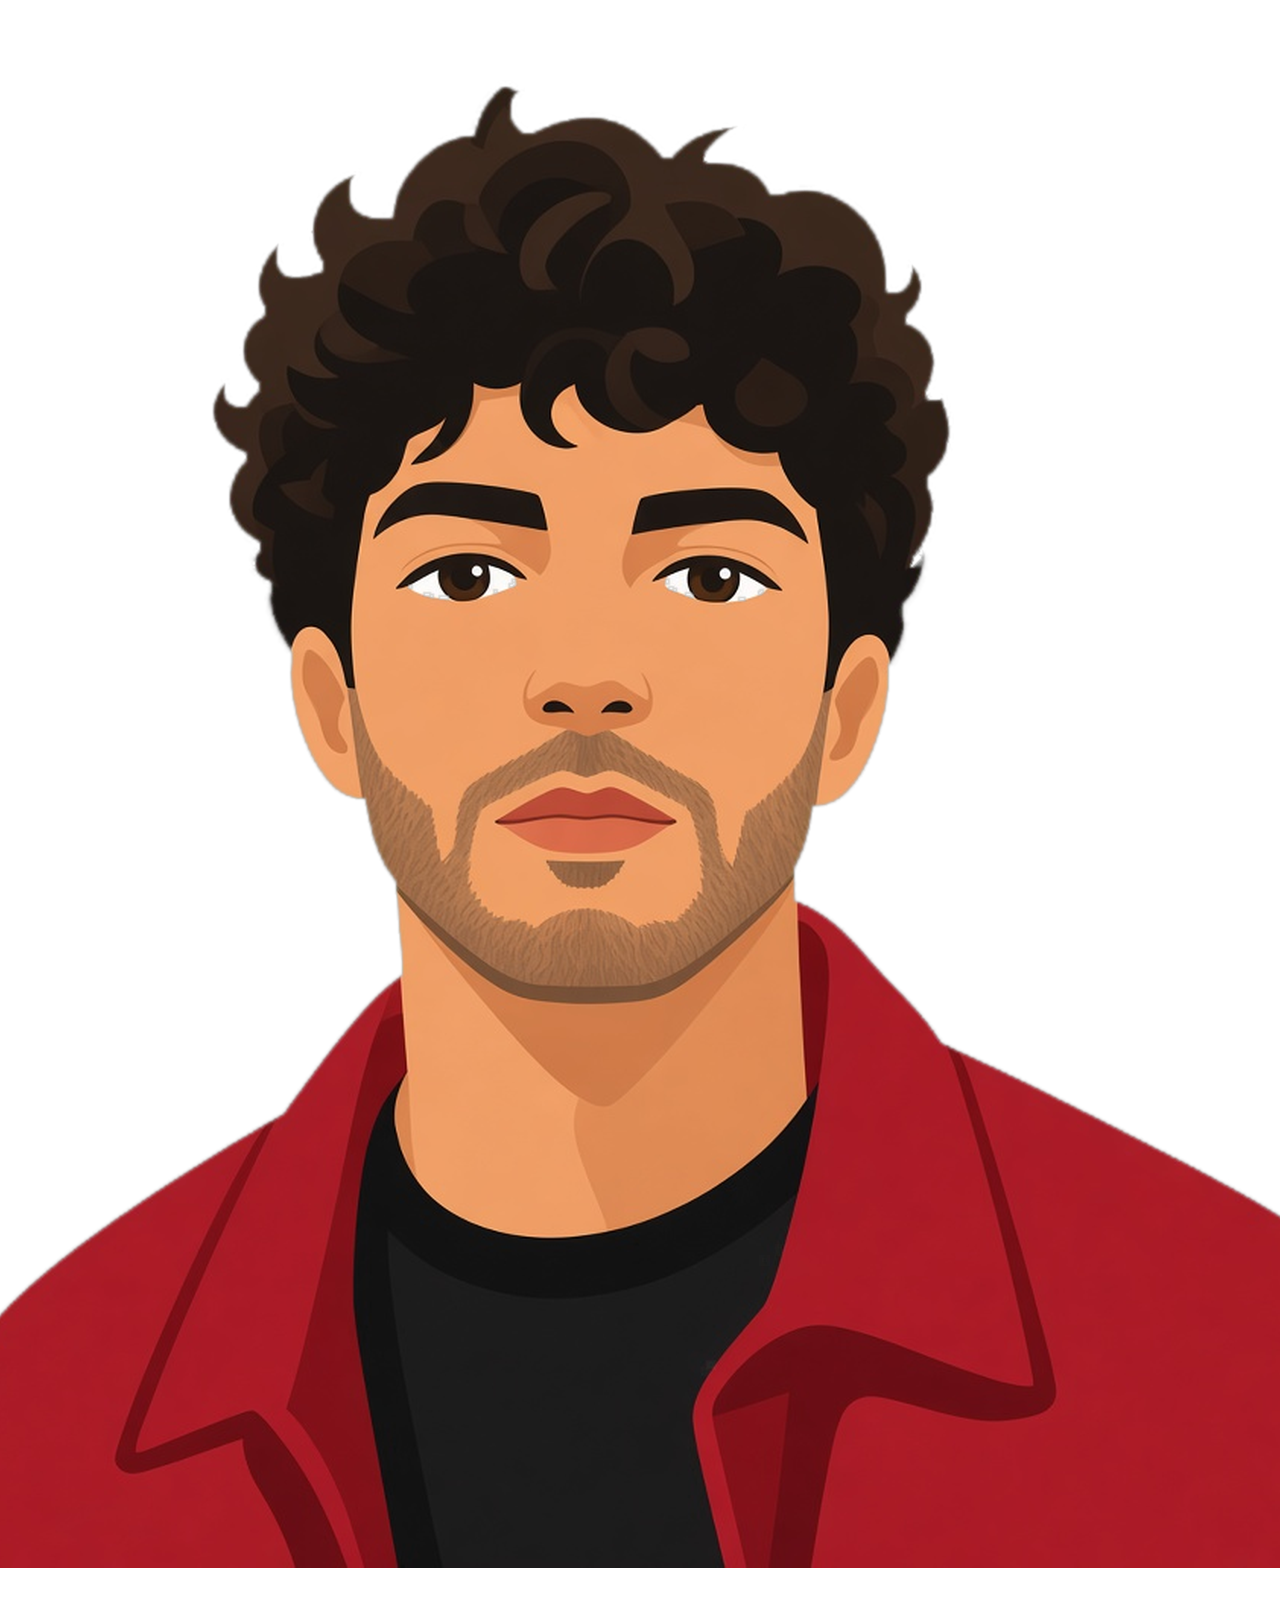
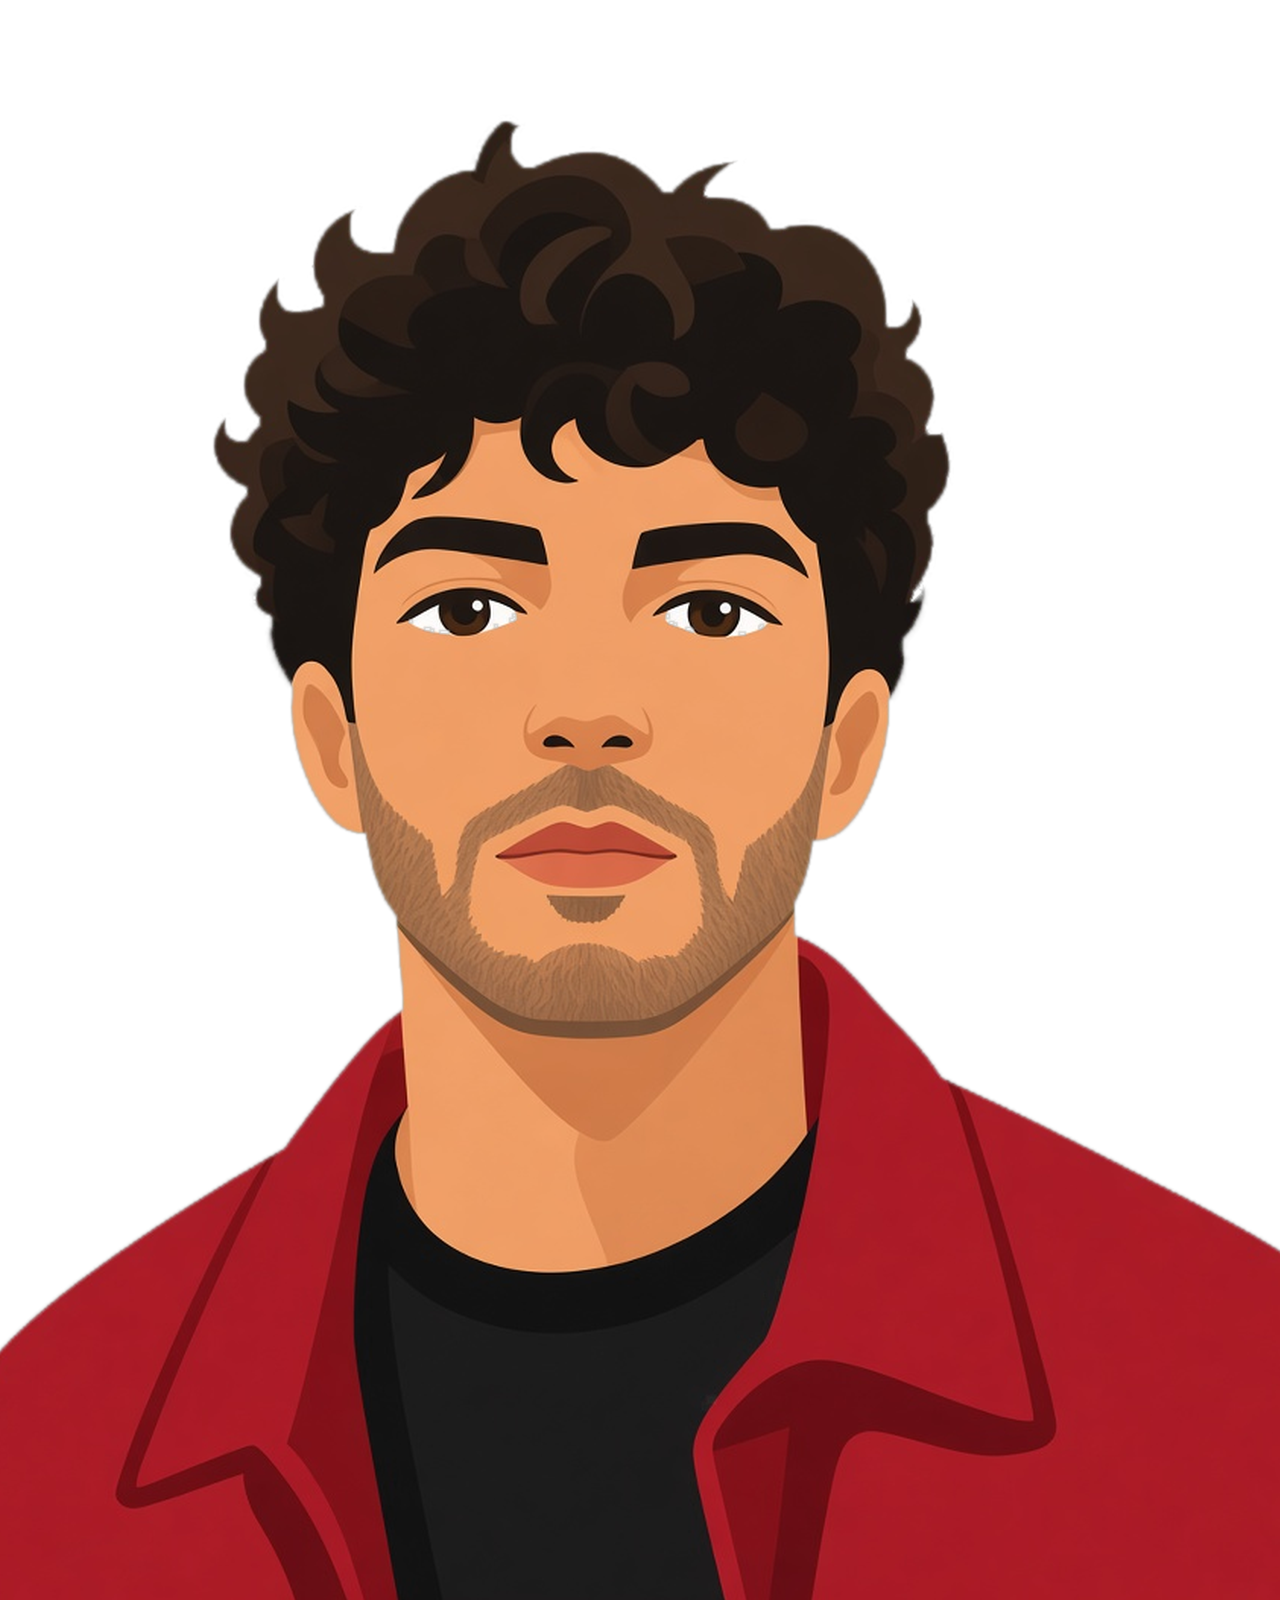
Round 20: iPhone optimization and portrait fix (#16)

Changed region(s): [[0.0, 0.0312, 1.0, 1.0], [0.4375, 0.6875, 0.4688, 0.7188]]

diff --git a/css/style.css b/css/style.css
@@ -115,6 +115,7 @@ html.lenis, html.lenis body { height: auto; }
 body {
   margin: 0;
   min-height: 100vh;
+  min-height: 100svh;
   background: var(--bg);
   color: var(--ink);
   font-family: var(--sans);
@@ -581,7 +582,7 @@ h3 .app-icon-sm, .flagship .app-icon-sm, .project-card .app-icon-sm {
 .tour-layout { display: grid; grid-template-columns: minmax(0, 1.2fr) minmax(0, 0.9fr); gap: clamp(1.5rem, 3vw, 3rem); align-items: start; }
 .tour-stage { position: sticky; top: calc(var(--nav-h) + 1.2rem); align-self: start; }
 .tour-steps { list-style: none; margin: 0; padding: 0 0 20vh; counter-reset: none; }
-.tour-step { min-height: 70vh; display: flex; flex-direction: column; justify-content: center; padding: 1.6rem 0; }
+.tour-step { min-height: 70vh; min-height: 70svh; display: flex; flex-direction: column; justify-content: center; padding: 1.6rem 0; }
 .tour-step-btn {
   all: unset; display: block; cursor: pointer; width: 100%; box-sizing: border-box;
   background: var(--card); border: 1px solid var(--line); border-radius: var(--r); padding: clamp(1.1rem, 2vw, 1.6rem);
@@ -623,7 +624,7 @@ html[data-theme="dark"] .scheme-img .on-dark { opacity: 1; pointer-events: auto;
 .about-list li { background: var(--card-2); border: 1px solid var(--line); border-radius: var(--r-sm); padding: 0.95rem 1.05rem; color: var(--ink-soft); font-size: 0.95rem; }
 
 /* ---------- 404 ---------- */
-.notfound { min-height: calc(100vh - var(--nav-h) - 8rem); display: grid; place-items: center; padding: 4rem 0; }
+.notfound { min-height: calc(100vh - var(--nav-h) - 8rem); min-height: calc(100svh - var(--nav-h) - 8rem - var(--safe-t) - var(--safe-b)); display: grid; place-items: center; padding: 4rem 0; }
 .notfound .card { text-align: center; max-width: 34rem; }
 .notfound h1 { font-size: clamp(2rem, 5vw, 3rem); margin-bottom: 1rem; }
 .notfound .big { font-family: var(--mono); font-weight: 700; color: var(--accent); font-size: clamp(3rem, 10vw, 6rem); line-height: 1; margin-bottom: 0.6rem; letter-spacing: -0.04em; }
@@ -632,7 +633,7 @@ html[data-theme="dark"] .scheme-img .on-dark { opacity: 1; pointer-events: auto;
 /* ---------- lightbox ---------- */
 .lb { position: fixed; inset: 0; z-index: 60; background: var(--veil); display: grid; place-items: center; padding: 4vw; opacity: 0; visibility: hidden; transition: opacity 0.3s, visibility 0.3s; }
 .lb.is-open { opacity: 1; visibility: visible; }
-.lb img { max-height: 90vh; width: auto; border-radius: 12px; }
+.lb img { max-height: 90vh; max-height: calc(90dvh - var(--safe-t) - var(--safe-b)); width: auto; border-radius: 12px; }
 .lb-close { position: absolute; top: 1rem; right: 1rem; }
 
 /* ---------- reveal (staggered fade / slide up) ---------- */
@@ -1441,3 +1442,53 @@ html[data-theme="dark"] .retro { --rt-ice-1: #EEF5F8; --rt-ice-2: #D5E4EB; --rt-
   white-space: nowrap; overflow: hidden; text-overflow: ellipsis;
 }
 @media (max-width: 1100px) { .project-card .metrics.metrics-4 { grid-template-columns: repeat(2, minmax(0, 1fr)); } }
+
+/* ---------- round 20: notch and island phones ----------
+   Every inset is 0 on desktop and on phones without a notch, so nothing
+   moves there. Tests can set the --safe-* values to simulate a notch. */
+:root {
+  --safe-t: env(safe-area-inset-top, 0px);
+  --safe-r: env(safe-area-inset-right, 0px);
+  --safe-b: env(safe-area-inset-bottom, 0px);
+  --safe-l: env(safe-area-inset-left, 0px);
+  --edge-l: max(var(--pad), calc(var(--safe-l) + 0.75rem));
+  --edge-r: max(var(--pad), calc(var(--safe-r) + 0.75rem));
+}
+html { -webkit-tap-highlight-color: transparent; overscroll-behavior-x: none; }
+body { overscroll-behavior-x: none; }
+/* full-height areas (body, 404, lightbox, tour steps) use svh/dvh in place, with a vh fallback */
+/* page edges: content never sits under the notch or the rounded corners in landscape */
+.wrap { padding-left: var(--edge-l); padding-right: var(--edge-r); }
+/* the computer's small-screen bleed stops 8px from the edge, or at the inset if larger */
+@media (max-width: 560px) {
+  .retro {
+    width: calc(100% + var(--edge-l) + var(--edge-r) - max(8px, var(--safe-l)) - max(8px, var(--safe-r)));
+    margin-left: calc(max(8px, var(--safe-l)) - var(--edge-l));
+    margin-right: calc(max(8px, var(--safe-r)) - var(--edge-r));
+  }
+}
+/* the bar fills the status area, its content starts below it */
+.nav { padding-top: var(--safe-t); }
+.tour-stage, .about-portrait { top: calc(var(--nav-h) + 1.2rem + var(--safe-t)); }
+.footer { padding-bottom: calc(2.6rem + var(--safe-b)); }
+.lb {
+  padding: max(4vw, var(--safe-t)) max(4vw, var(--safe-r)) max(4vw, var(--safe-b)) max(4vw, var(--safe-l));
+}
+.skip:focus { top: calc(1rem + var(--safe-t)); }
+.notfound { padding-bottom: calc(4rem + var(--safe-b)); }
+input, select, textarea { font-size: max(16px, 1em); }
+
+/* touch: 44px hit areas without changing how anything looks */
+@media (hover: none) and (pointer: coarse) {
+  .nav-links a, .footer-links a, .footer-in a, .wordmark, .theme-toggle, .arrow-link, .case-down, .lv-toggle { position: relative; }
+  .nav-links a::before, .footer-links a::before, .footer-in a::before, .wordmark::before,
+  .theme-toggle::before, .arrow-link::before, .float-reset::before, .case-down::before, .lv-toggle::before, .retro-power::before {
+    content: ""; position: absolute; left: -6px; right: -6px;
+    top: calc(50% - 22px); bottom: calc(50% - 22px); min-width: 44px;
+  }
+  .theme-toggle::before, .case-down::before, .retro-power::before { left: calc(50% - 22px); right: auto; width: 44px; }
+  /* visible press feedback in place of the grey tap flash */
+  a:active, button:active, [role="button"]:active { opacity: 0.72; }
+  .project-card:active { opacity: 1; transform: scale(0.992); }
+  .float-card:active { opacity: 1; }
+}

diff --git a/js/main.js b/js/main.js
@@ -43,6 +43,18 @@
       else el.media = "(prefers-color-scheme: dark)";
     });
   }
+  /* the browser bar colour follows a manual light/dark choice too */
+  function applyThemeColor() {
+    var s = storedTheme();
+    document.querySelectorAll('meta[name="theme-color"]').forEach(function (m) {
+      if (!m.hasAttribute("data-media")) m.setAttribute("data-media", m.getAttribute("media") || "");
+      var orig = m.getAttribute("data-media");
+      var forDark = orig.indexOf("dark") !== -1;
+      if (s === "dark") m.setAttribute("media", forDark ? "all" : "not all");
+      else if (s === "light") m.setAttribute("media", forDark ? "not all" : "all");
+      else m.setAttribute("media", orig);
+    });
+  }
   function updateToggle() {
     var s = storedTheme();
     var label;
@@ -64,6 +76,7 @@
     }
     updateToggle();
     applyPictures();
+    applyThemeColor();
     document.dispatchEvent(new CustomEvent("themechange", { detail: { dark: isDark() } }));
   }
   document.querySelectorAll("[data-theme-toggle]").forEach(function (btn) {
@@ -83,6 +96,7 @@
   }
   updateToggle();
   applyPictures();
+  applyThemeColor();
 
 
   /* ---------- page enter / leave ---------- */
@@ -307,6 +321,28 @@
     var de = document.documentElement;
     return (de && de.clientWidth) || (document.body && document.body.clientWidth) || 0;
   }
+  /* screen insets (notch, island, home bar, rounded corners), read from the
+     --safe-* CSS values; all 0 on desktop. Cached, refreshed on resize. */
+  var safeProbe = null, safeCache = null;
+  function safeInsets() {
+    if (safeCache) return safeCache;
+    var z = { t: 0, r: 0, b: 0, l: 0 };
+    if (!document.body) return z;
+    if (!safeProbe) {
+      safeProbe = document.createElement("div");
+      safeProbe.setAttribute("aria-hidden", "true");
+      safeProbe.style.cssText = "position:fixed;left:0;top:0;width:0;height:0;visibility:hidden;pointer-events:none;" +
+        "padding:var(--safe-t,0px) var(--safe-r,0px) var(--safe-b,0px) var(--safe-l,0px)";
+      document.body.appendChild(safeProbe);
+    }
+    var cs = getComputedStyle(safeProbe);
+    z.t = parseFloat(cs.paddingTop) || 0; z.r = parseFloat(cs.paddingRight) || 0;
+    z.b = parseFloat(cs.paddingBottom) || 0; z.l = parseFloat(cs.paddingLeft) || 0;
+    safeCache = z;
+    return z;
+  }
+  window.addEventListener("resize", function () { safeCache = null; });
+  window.addEventListener("orientationchange", function () { safeCache = null; });
 
   function getScroll() {
     if (lenis && typeof lenis.scroll === "number") return lenis.scroll;
@@ -353,7 +389,11 @@
     var CM = 160, canvasY = null;
     /* agent sprite width: x is clamped to [0, W - AGW] */
     var AGW = 22;
-    function clampX(x) { return Math.min(Math.max(0, W - AGW), Math.max(0, x)); }
+    function clampX(x) {
+      /* inside the page and clear of a landscape notch / rounded corner */
+      var si = safeInsets(), lo = si.l, hi = Math.max(lo, W - AGW - si.r);
+      return Math.min(hi, Math.max(lo, x));
+    }
 
     function palette() {
       return dark
@@ -2484,7 +2524,8 @@
       card.style.bottom = "auto";
       var r = card.getBoundingClientRect();
       var m = 8;
-      var topMin = 8;
+      var si = safeInsets();
+      var topMin = 8 + si.t;
       if (nav) {
         var nb = nav.getBoundingClientRect().bottom;
         if (nb > 0) topMin = Math.max(topMin, nb + 4);
@@ -2492,7 +2533,7 @@
       var dx = 0, dy = 0;
       var pw = pageWidth() || window.innerWidth;
       if (r.top < topMin) dy = topMin - r.top;
-      if (r.bottom > window.innerHeight - m) dy = (window.innerHeight - m) - r.bottom;
+      if (r.bottom > window.innerHeight - m - si.b) dy = (window.innerHeight - m - si.b) - r.bottom;
       var hero = root.closest(".hero") || root;
       var hr = hero.getBoundingClientRect();
       /* stay in the hero, with a little slack so the designed hang-off is still legal */
@@ -2502,8 +2543,8 @@
       if (r.top + dy < hr.top - 8) dy = (hr.top - 8) - r.top;
       if (r.bottom + dy > hr.bottom + 8) dy = (hr.bottom + 8) - r.bottom;
       /* the page width always wins: never past either edge */
-      if (r.left + dx < m) dx = m - r.left;
-      if (r.right + dx > pw - m) dx = (pw - m) - r.right;
+      if (r.left + dx < m + si.l) dx = (m + si.l) - r.left;
+      if (r.right + dx > pw - m - si.r) dx = (pw - m - si.r) - r.right;
       if (dx || dy) {
         left += dx;
         top += dy;

diff --git a/index.html b/index.html
@@ -2,7 +2,7 @@
 <html lang="en-GB">
 <head>
   <meta charset="utf-8">
-  <meta name="viewport" content="width=device-width, initial-scale=1">
+  <meta name="viewport" content="width=device-width, initial-scale=1, viewport-fit=cover">
   <script>
     (function () {
       try {
@@ -21,6 +21,8 @@
   <meta name="color-scheme" content="light dark">
   <meta name="theme-color" media="(prefers-color-scheme: light)" content="#F6F5F2">
   <meta name="theme-color" media="(prefers-color-scheme: dark)" content="#0A0A0B">
+  <meta name="apple-mobile-web-app-status-bar-style" content="default">
+  <meta name="format-detection" content="telephone=no">
   <title>Antonio Rosati — Selected work</title>
   <meta name="description" content="Portfolio of Antonio Rosati, MSc student in AI for Business Transformation. Selected work: Lyceum, a native macOS app, and Audi Vorsprung Club, an AI-generated loyalty prototype from H-ACK Audi.">
   <meta name="author" content="Antonio Rosati">
@@ -114,8 +116,8 @@
           <span class="display-word" aria-hidden="true" data-parallax="0.12">ROSATI</span>
           <div class="portrait-card">
             <picture>
-              <source type="image/webp" srcset="assets/portrait.webp">
-              <img src="assets/portrait.png" width="1280" height="1600" alt="Antonio Rosati, illustrated portrait">
+              <source type="image/webp" srcset="assets/portrait.webp?v=20261115">
+              <img src="assets/portrait.png?v=20261115" width="1280" height="1600" alt="Antonio Rosati, illustrated portrait">
             </picture>
           </div>
           <div class="float-card fc-1" data-drag-card="studies" tabindex="0" data-reveal style="--d:280ms">

diff --git a/about.html b/about.html
@@ -2,7 +2,7 @@
 <html lang="en-GB">
 <head>
   <meta charset="utf-8">
-  <meta name="viewport" content="width=device-width, initial-scale=1">
+  <meta name="viewport" content="width=device-width, initial-scale=1, viewport-fit=cover">
   <script>
     (function () {
       try {
@@ -21,6 +21,8 @@
   <meta name="color-scheme" content="light dark">
   <meta name="theme-color" media="(prefers-color-scheme: light)" content="#F6F5F2">
   <meta name="theme-color" media="(prefers-color-scheme: dark)" content="#0A0A0B">
+  <meta name="apple-mobile-web-app-status-bar-style" content="default">
+  <meta name="format-detection" content="telephone=no">
   <title>About — Antonio Rosati</title>
   <meta name="description" content="Antonio Rosati is an MSc student in AI for Business Transformation at H-FARM College, awarded by the University of Chichester. He builds working AI-enabled software and is looking towards Forward Deployed Engineering.">
   <meta name="author" content="Antonio Rosati">
@@ -99,8 +101,8 @@
       <figure class="about-portrait" data-reveal>
         <div class="portrait-card">
           <picture>
-            <source type="image/webp" srcset="assets/portrait.webp">
-            <img src="assets/portrait.png" width="1280" height="1600" alt="Antonio Rosati, illustrated portrait">
+            <source type="image/webp" srcset="assets/portrait.webp?v=20261115">
+            <img src="assets/portrait.png?v=20261115" width="1280" height="1600" alt="Antonio Rosati, illustrated portrait">
           </picture>
         </div>
       </figure>

diff --git a/audi.html b/audi.html
@@ -2,7 +2,7 @@
 <html lang="en-GB">
 <head>
   <meta charset="utf-8">
-  <meta name="viewport" content="width=device-width, initial-scale=1">
+  <meta name="viewport" content="width=device-width, initial-scale=1, viewport-fit=cover">
   <script>
     (function () {
       try {
@@ -21,6 +21,8 @@
   <meta name="color-scheme" content="light dark">
   <meta name="theme-color" media="(prefers-color-scheme: light)" content="#F6F5F2">
   <meta name="theme-color" media="(prefers-color-scheme: dark)" content="#0A0A0B">
+  <meta name="apple-mobile-web-app-status-bar-style" content="default">
+  <meta name="format-detection" content="telephone=no">
   <title>Audi Vorsprung Club — Antonio Rosati</title>
   <meta name="description" content="Audi Vorsprung Club: a myAudi loyalty-programme prototype made for H-ACK Audi — Co-Design the Future, 10 October 2026. Five membership levels, four rings, rewards, events, QR invites and a chat. The code was generated in full by AI from a prompt Antonio Rosati wrote.">
   <meta name="author" content="Antonio Rosati">

diff --git a/lyceum.html b/lyceum.html
@@ -2,7 +2,7 @@
 <html lang="en-GB">
 <head>
   <meta charset="utf-8">
-  <meta name="viewport" content="width=device-width, initial-scale=1">
+  <meta name="viewport" content="width=device-width, initial-scale=1, viewport-fit=cover">
   <script>
     (function () {
       try {
@@ -21,6 +21,8 @@
   <meta name="color-scheme" content="light dark">
   <meta name="theme-color" media="(prefers-color-scheme: light)" content="#F6F5F2">
   <meta name="theme-color" media="(prefers-color-scheme: dark)" content="#0A0A0B">
+  <meta name="apple-mobile-web-app-status-bar-style" content="default">
+  <meta name="format-detection" content="telephone=no">
   <title>Lyceum — Antonio Rosati</title>
   <meta name="description" content="Lyceum is a native macOS app, written in Swift and SwiftUI, that turns lecture and meeting recordings into transcripts and editable study documents. A personal project by Antonio Rosati, January 2026–present.">
   <meta name="author" content="Antonio Rosati">

diff --git a/404.html b/404.html
@@ -2,7 +2,7 @@
 <html lang="en-GB">
 <head>
   <meta charset="utf-8">
-  <meta name="viewport" content="width=device-width, initial-scale=1">
+  <meta name="viewport" content="width=device-width, initial-scale=1, viewport-fit=cover">
   <script>
     (function () {
       try {
@@ -21,6 +21,8 @@
   <meta name="color-scheme" content="light dark">
   <meta name="theme-color" media="(prefers-color-scheme: light)" content="#F6F5F2">
   <meta name="theme-color" media="(prefers-color-scheme: dark)" content="#0A0A0B">
+  <meta name="apple-mobile-web-app-status-bar-style" content="default">
+  <meta name="format-detection" content="telephone=no">
   <title>Page not found — Antonio Rosati</title>
   <meta name="robots" content="noindex">
   <link rel="apple-touch-icon" sizes="180x180" href="assets/apple-touch-icon.png?v=20261114">
